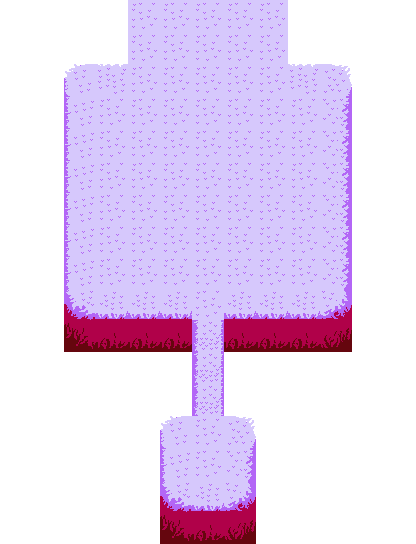
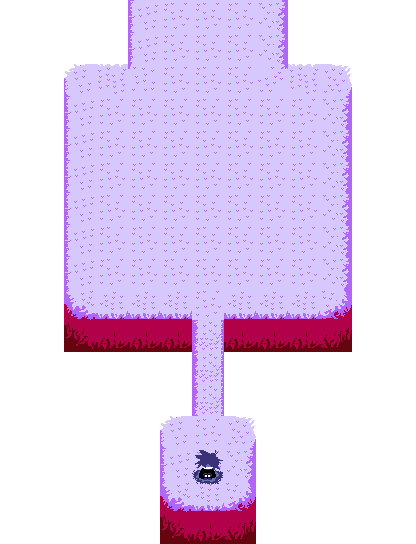
AAAAAAAAAAAAAAAAAAAAAAAAA

Changed region(s): [[0.625, 0.0, 0.7188, 0.1562], [0.2812, 0.0, 0.3438, 0.1562], [0.4688, 0.8125, 0.5312, 0.9062]]

diff --git a/src/model/map_model.py b/src/model/map_model.py
@@ -62,8 +62,8 @@ class MapModel:
                         self.overhead_entities.append((entity_name, x, y))
                     else:
                         match (r,g,b):
-                            case (  0,  0,  0):
-                                self.collision_grid[y][x] = True    #? PRETO: Parede
+                            case (  0,  0,  0):                     #? PRETO: Parede
+                                self.collision_grid[y][x] = True
                             case (  0,255,  0):                     #? VERDE: Spawn Jogador
                                 self.spawn_x = x * self.tile_size
                                 self.spawn_y = y * self.tile_size
@@ -74,8 +74,10 @@ class MapModel:
                                 self.transitions[coord_key] = self.transitions_targets[0]
                             case (255,255,  0):                     #? AMARELO: Item
                                 self.item_spawns.append((x,y))
-                            case (255,255,0):
-                                self.item_spawns.append((x,y))
+                            case (255,  0,255):                     #? ROSA: NPC
+                                print("npc")
+                                self.collision_grid[y][x] = True
+                                self.npc_spawns.append((x,y))
         except FileNotFoundError:
             print(f"[MapModel] Erro: Imagem de meta-dados '{meta_filename}' não encontrada.")
 

diff --git a/src/view/playing_view.py b/src/view/playing_view.py
@@ -49,12 +49,12 @@ class PlayingView(View):
         self.enemy_anims = { "idle": [], "walk": [], "attack": [], "death": [] }
         enemy_dir = os.path.join(CONTENT_DIR, "enemy", "animations")
         path_idle = os.path.join(enemy_dir, "idle", "enemy_idle.gif")
-        if os.path.exists(path_idle): self.enemy_anims["idle"] = list(PYG.image.load_animation(path_idle))
         path_walk = os.path.join(enemy_dir, "walk", "enemy_walk.gif")
-        if os.path.exists(path_walk): self.enemy_anims["walk"] = list(PYG.image.load_animation(path_walk))
         path_attack = os.path.join(enemy_dir, "attack", "enemy_attack.gif")
-        if os.path.exists(path_attack): self.enemy_anims["attack"] = list(PYG.image.load_animation(path_attack))
         path_death = os.path.join(enemy_dir, "death", "enemy_death.gif")
+        if os.path.exists(path_walk): self.enemy_anims["walk"] = list(PYG.image.load_animation(path_walk))
+        if os.path.exists(path_idle): self.enemy_anims["idle"] = list(PYG.image.load_animation(path_idle))
+        if os.path.exists(path_attack): self.enemy_anims["attack"] = list(PYG.image.load_animation(path_attack))
         if os.path.exists(path_death): self.enemy_anims["death"] = list(PYG.image.load_animation(path_death))
         self.flash_cache = {}
         self.heart_scale_size = None
@@ -163,9 +163,9 @@ class PlayingView(View):
                     PYG.draw.rect(self.internal_surf, (200, 0, 0), (ex, ey, 32, 32))
         for npc in npcs:
             nx = npc.rect.x - offset_x
-            ny = npc.recy.y - offset_y
+            ny = npc.rect.y - offset_y
             if -32 < nx < self.internal_size[0] and -32 < ny < self.internal_size[1]:
-                PYG.draw.rect(self.internal_surf, (255,0,255), (nx, ny, 32, 32))
+                #*PYG.draw.rect(self.internal_surf, (255,0,255), (nx, ny, 32, 32))
                 if npc.is_interacting:
                     PYG.draw.rect(self.internal_surf, (255,255,255), (nx - 10, ny - 20, 50, 15), border_radius=5)
         PYG.transform.scale(self.internal_surf, self.screen.get_size(), self.screen)

diff --git a/src/controller/playing_controller.py b/src/controller/playing_controller.py
@@ -10,7 +10,7 @@ from src.view.playing_view import PlayingView
 from src.model.player_model import PlayerModel
 from src.model.enemy_model import EnemyModel
 from src.model.npc_model import NPCModel
-from src.model.projectile_mode import ProjectileModel
+from src.model.projectile_model import ProjectileModel
 from src.model.map_model import MapModel
 from src.utils.math_utils import normalize_vector
 from src.utils.camera import Camera
@@ -65,6 +65,12 @@ class PlayingController(Controller):
                                 if distance <= 50.0:
                                     npc.interact()
                                     break
+                        case PYG.K_LSHIFT:
+                            self.player_model.speed = 150.0
+                case PYG.KEYUP:
+                    match event.key:
+                        case PYG.K_LSHIFT:
+                            self.player_model.speed = 50.0
             if event.type == PYG.KEYDOWN and event.key == PYG.K_ESCAPE:
                 self.change_state(GameState.START_SCREEN)
             

diff --git a/src/Config.py b/src/Config.py
@@ -12,7 +12,7 @@ CONTENT_DIR = _OS_PATH.join(ROOT_DIR, "content")
 
 SIZE = nTuple("SIZE", "WIDTH HEIGHT")
 
-WINDOW_TITLE  = "O JOGO"
+WINDOW_TITLE  = "The Fall"
 SCREEN_SIZE   = SIZE(1280, 720)
 SCREEN_ZOOM   = (2, 4)
 FPS           = 60

diff --git a/src/model/player_model.py b/src/model/player_model.py
@@ -12,7 +12,7 @@ class PlayerModel:
         self.hitbox.midbottom = self.rect.midbottom
         self.pos_x = float(self.hitbox.centerx)
         self.pos_y = float(self.hitbox.centery)
-        self.speed = 100.0
+        self.speed = 80.0
         self.direction = "down"
         self.is_moving = False
         self.max_health = 3